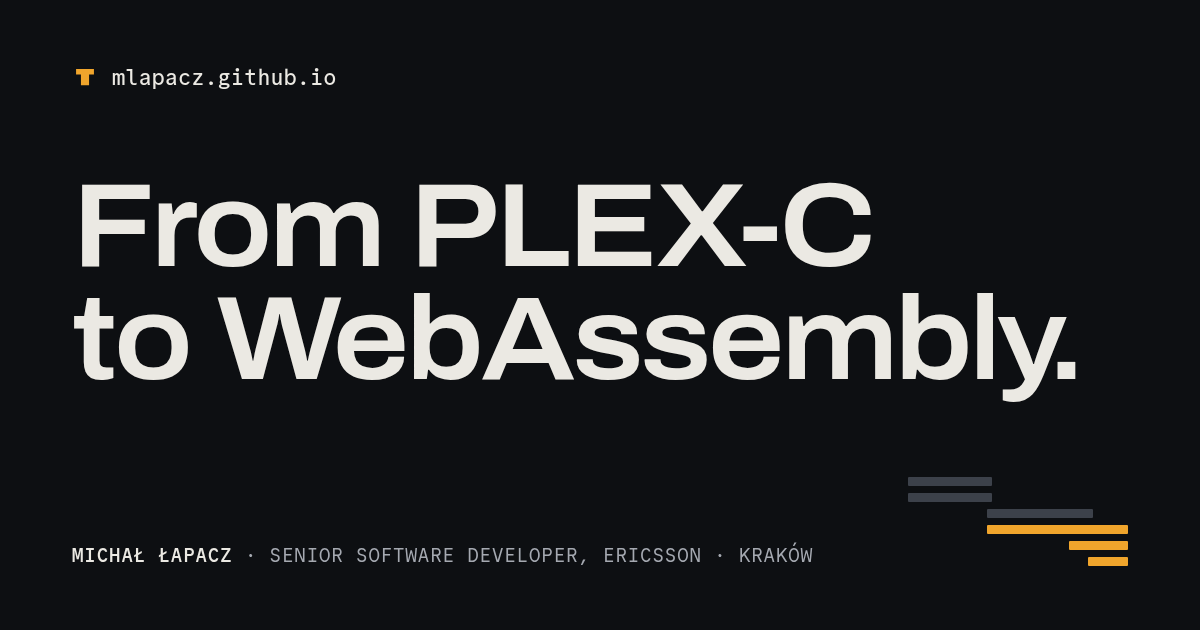
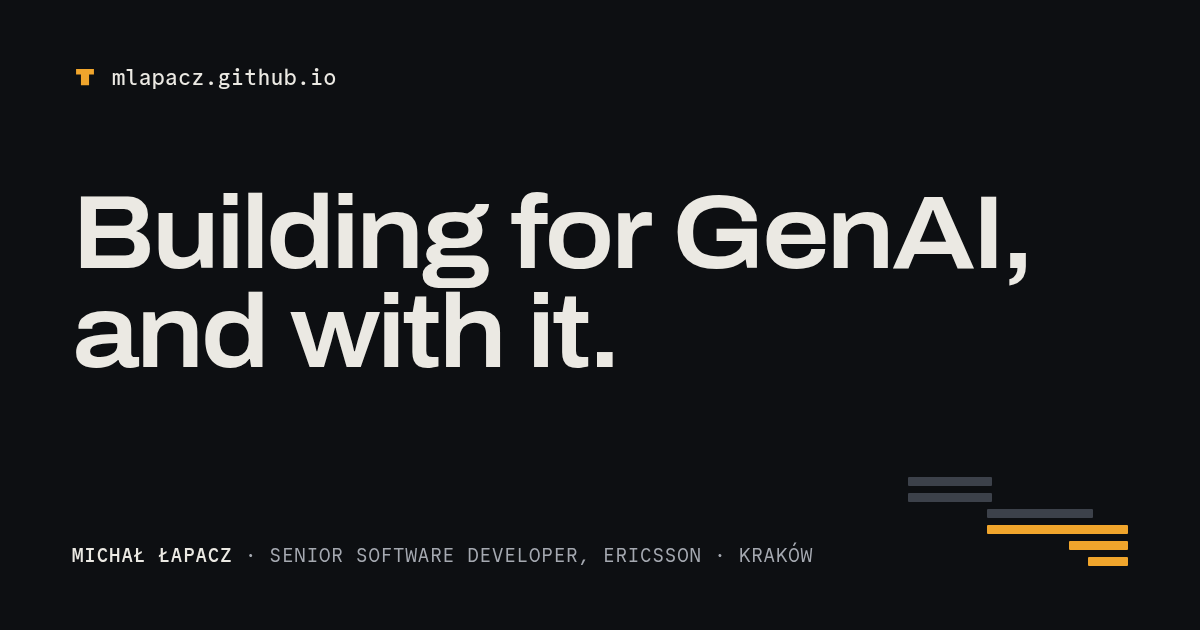
Lead with today's work: GenAI platforms, RAG, coding agents
New hero thesis "Building for GenAI, and with it." with the twenty
years of telecom compressed into the lede. Now section covers the RAG
application on a knowledge fabric and daily work with Claude Code and
Pi. Selected work gains the RAG entry and the open-source agent
tooling (agent-comm, agent-setup); the DHCP entry moves to the career
ledger only. Stack chart gets a Coding agents row and RAG on the GenAI
row. Meta description and OG image follow the new headline.

Claude-Session: https://claude.ai/code/session_011ByA2kjGbk2WjLnbNm4tUJ

Changed region(s): [[0.0617, 0.2714, 0.8942, 0.6333]]

diff --git a/index.html b/index.html
@@ -4,7 +4,7 @@
   <meta charset="utf-8">
   <meta name="viewport" content="width=device-width, initial-scale=1">
   <title>Michał Łapacz · Software developer, Kraków</title>
-  <meta name="description" content="Twenty years of software in Ericsson's orbit: AXE exchanges in PLEX-C, network management in Java, cloud-native prototypes in Go and WebAssembly, and now an AWS platform for generative-AI projects.">
+  <meta name="description" content="Senior software developer at Ericsson, Kraków. Cloud platforms for generative AI, a RAG application on a knowledge fabric with its own ontology, and code written with AI agents. Twenty years of software, from GSM switches to the cloud.">
   <meta name="author" content="Michał Łapacz">
   <meta name="color-scheme" content="light dark">
   <meta name="theme-color" content="#f3f3f0" media="(prefers-color-scheme: light)">
@@ -13,8 +13,8 @@
   <link rel="icon" href="assets/img/mark.svg" type="image/svg+xml">
 
   <meta property="og:type" content="profile">
-  <meta property="og:title" content="Michał Łapacz · From PLEX-C to WebAssembly">
-  <meta property="og:description" content="Senior software developer at Ericsson, Kraków. Twenty years from AXE exchanges to cloud platforms for generative AI.">
+  <meta property="og:title" content="Michał Łapacz · Building for GenAI, and with it">
+  <meta property="og:description" content="Senior software developer at Ericsson, Kraków. Cloud platforms for generative AI, RAG on a knowledge fabric, code written with AI agents. Twenty years of software behind it.">
   <meta property="og:url" content="https://mlapacz.github.io/">
   <meta property="og:locale" content="en_US">
   <meta property="og:image" content="https://mlapacz.github.io/assets/img/og.png">
@@ -24,7 +24,7 @@
 
   <link rel="preload" href="assets/fonts/Archivo-latin.woff2" as="font" type="font/woff2" crossorigin>
   <link rel="preload" href="assets/fonts/CommitMono-VF.woff2" as="font" type="font/woff2" crossorigin>
-  <link rel="stylesheet" href="assets/css/style.css?v=3">
+  <link rel="stylesheet" href="assets/css/style.css?v=4">
 
   <!-- before first paint: apply a saved theme (no flash) and mark JS as available
        so scroll-reveal elements start hidden instead of blinking -->
@@ -77,13 +77,14 @@
     <section class="wrap hero" id="top" aria-label="Introduction">
       <p class="eyebrow"><b>Michał Łapacz</b> · Senior Software Developer, Ericsson · Kraków</p>
       <h1>
-        <span class="line">From PLEX-C</span>
-        <span class="line">to WebAssembly.</span>
+        <span class="line">Building for GenAI,</span>
+        <span class="line">and with it.</span>
       </h1>
       <p class="lede">
-        Twenty years of software, all of it in Ericsson's orbit. I started on the AXE exchanges
-        that carried GSM calls, moved on to the systems that manage mobile networks, and now build
-        the AWS platform behind Ericsson's generative-AI projects.
+        I build the AWS platform behind Ericsson's generative-AI projects, a RAG application on a
+        knowledge fabric with its own ontology, and most of my code with AI agents. Behind that,
+        twenty years of software for Ericsson, from the switches that carried GSM calls to the
+        cloud that runs today's networks.
       </p>
       <!--
         Portrait: drop a square photo at assets/img/portrait.jpg and uncomment.
@@ -156,9 +157,14 @@
           <span class="stack__range">2023–now</span>
         </li>
         <li class="stack__row">
-          <span class="stack__name">GenAI · LLM</span>
+          <span class="stack__name">GenAI · LLM · RAG</span>
           <span class="stack__track" aria-hidden="true"><span class="stack__bar" data-now style="--i:11;grid-column:19/23"></span></span>
           <span class="stack__range">2023–now</span>
+        </li>
+        <li class="stack__row">
+          <span class="stack__name">Coding agents</span>
+          <span class="stack__track" aria-hidden="true"><span class="stack__bar" data-now style="--i:12;grid-column:21/23"></span></span>
+          <span class="stack__range">2025–now</span>
         </li>
       </ul>
 
@@ -193,11 +199,15 @@
           teams move quickly without leaking anything.
         </p>
         <p>
-          Before that I spent two years in the Standardization &amp; Technologies department
-          writing cloud-native prototypes: Mobile Network as a Service, intent-based handling,
-          and a browser-based modeller whose core is Go compiled to WebAssembly. Most of what
-          one writes in R&amp;D exists to settle a question; knowing when to delete it is part
-          of the job.
+          Alongside that I am building a RAG application on a knowledge fabric. An ontology
+          describes the entities and relations of the domain, so retrieval follows the
+          structure of the knowledge instead of relying on vector similarity alone.
+        </p>
+        <p>
+          Most of my code now starts as a conversation with an agent. I work with Claude Code
+          and Pi every day, keep my agent setup and self-written extensions under version
+          control, and wrote a relay that puts several Pi sessions in the browser. The agents
+          draft; I decide what ships.
         </p>
         <p>
           Off the clock I read Rust and Kotlin, write JavaScript for the fun of it, and keep a
@@ -242,6 +252,31 @@
       <div class="section__body">
         <ul class="work">
           <li>
+            <div class="work__meta"><span>2025 — now</span></div>
+            <h3>RAG on a knowledge fabric</h3>
+            <p>
+              A retrieval-augmented generation application whose retrieval is organised by a
+              knowledge fabric: an ontology defines the entities and relations of the domain,
+              so answers are grounded in the structure of the knowledge, not only in vector
+              similarity.
+            </p>
+            <p class="tech">RAG · Knowledge fabric · Ontology · LLMs</p>
+          </li>
+          <li>
+            <div class="work__meta"><span>2026</span><span>open source</span></div>
+            <h3>Tooling for coding agents</h3>
+            <p>
+              <a href="https://github.com/wapacz/agent-comm">agent-comm</a> is a relay that
+              fronts several Pi coding-agent sessions: a real terminal in the browser through
+              xterm.js, plus an A2A HTTP surface so other agents can talk to them. Sessions dial
+              out over WebSocket, so nothing needs an inbound port.
+              <a href="https://github.com/wapacz/agent-setup">agent-setup</a> keeps my agent
+              configuration and self-written extensions, such as automatic AWS SSO re-login,
+              reproducible on any machine.
+            </p>
+            <p class="tech">TypeScript · Node · WebSocket · xterm.js · A2A</p>
+          </li>
+          <li>
             <div class="work__meta"><span>2023 — now</span><span>Ericsson</span></div>
             <h3>A GenAI platform on AWS</h3>
             <p>
@@ -282,15 +317,6 @@
               team took it on. It shipped.
             </p>
             <p class="tech">Java · JavaScript · UISDK (Backbone.js)</p>
-          </li>
-          <li>
-            <div class="work__meta"><span>2018 — 2020</span><span>Ericsson</span></div>
-            <h3>DHCP management for ENM</h3>
-            <p>
-              Backend and frontend for manipulating DHCP entries from within Ericsson Network
-              Manager, plus the new ENM services around it.
-            </p>
-            <p class="tech">Java 8 · JavaScript · Maven</p>
           </li>
           <li>
             <div class="work__meta"><span>2005 — 2013</span><span>Ericpol, for Ericsson</span></div>
@@ -370,9 +396,9 @@
           The quickest way to reach me is LinkedIn.
         </p>
         <p>
-          On GitHub, the recent repository worth a look is
-          <a href="https://github.com/wapacz/agent-comm">agent-comm</a>: a relay that fronts
-          several coding-agent sessions with a browser terminal and an A2A HTTP surface.
+          On GitHub, start with <a href="https://github.com/wapacz/agent-comm">agent-comm</a>
+          and <a href="https://github.com/wapacz/agent-setup">agent-setup</a>, the tooling
+          around my daily work with coding agents.
         </p>
         <ul class="contact">
           <li><span>LinkedIn</span><a href="https://www.linkedin.com/in/michallapacz/">linkedin.com/in/michallapacz</a></li>
@@ -389,6 +415,6 @@
     <p>Hand-written HTML and CSS. No framework, no tracking. Set in Archivo and Commit Mono, self-hosted.</p>
   </footer>
 
-  <script src="assets/js/site.js?v=3"></script>
+  <script src="assets/js/site.js?v=4"></script>
 </body>
 </html>

diff --git a/404.html b/404.html
@@ -7,7 +7,7 @@
   <meta name="robots" content="noindex">
   <meta name="color-scheme" content="light dark">
   <link rel="icon" href="/assets/img/mark.svg" type="image/svg+xml">
-  <link rel="stylesheet" href="/assets/css/style.css?v=3">
+  <link rel="stylesheet" href="/assets/css/style.css?v=4">
   <script>try{var t=localStorage.getItem("theme");if(t)document.documentElement.dataset.theme=t}catch(e){}</script>
 </head>
 <body>
@@ -25,6 +25,6 @@
     <h1>No such page.</h1>
     <p class="lede">Nothing lives at this address. <a href="/">Back to the start</a>.</p>
   </main>
-  <script src="/assets/js/site.js?v=3"></script>
+  <script src="/assets/js/site.js?v=4"></script>
 </body>
 </html>

diff --git a/assets/css/style.css b/assets/css/style.css
@@ -306,7 +306,7 @@ h3 {
 }
 
 .hero h1 {
-  font-size: clamp(2.2rem, 0.6rem + 6.4vw, 6.25rem);
+  font-size: clamp(1.95rem, 0.5rem + 5.6vw, 5.25rem);
   font-weight: 620;
   font-stretch: 112%;
   letter-spacing: -0.03em;
